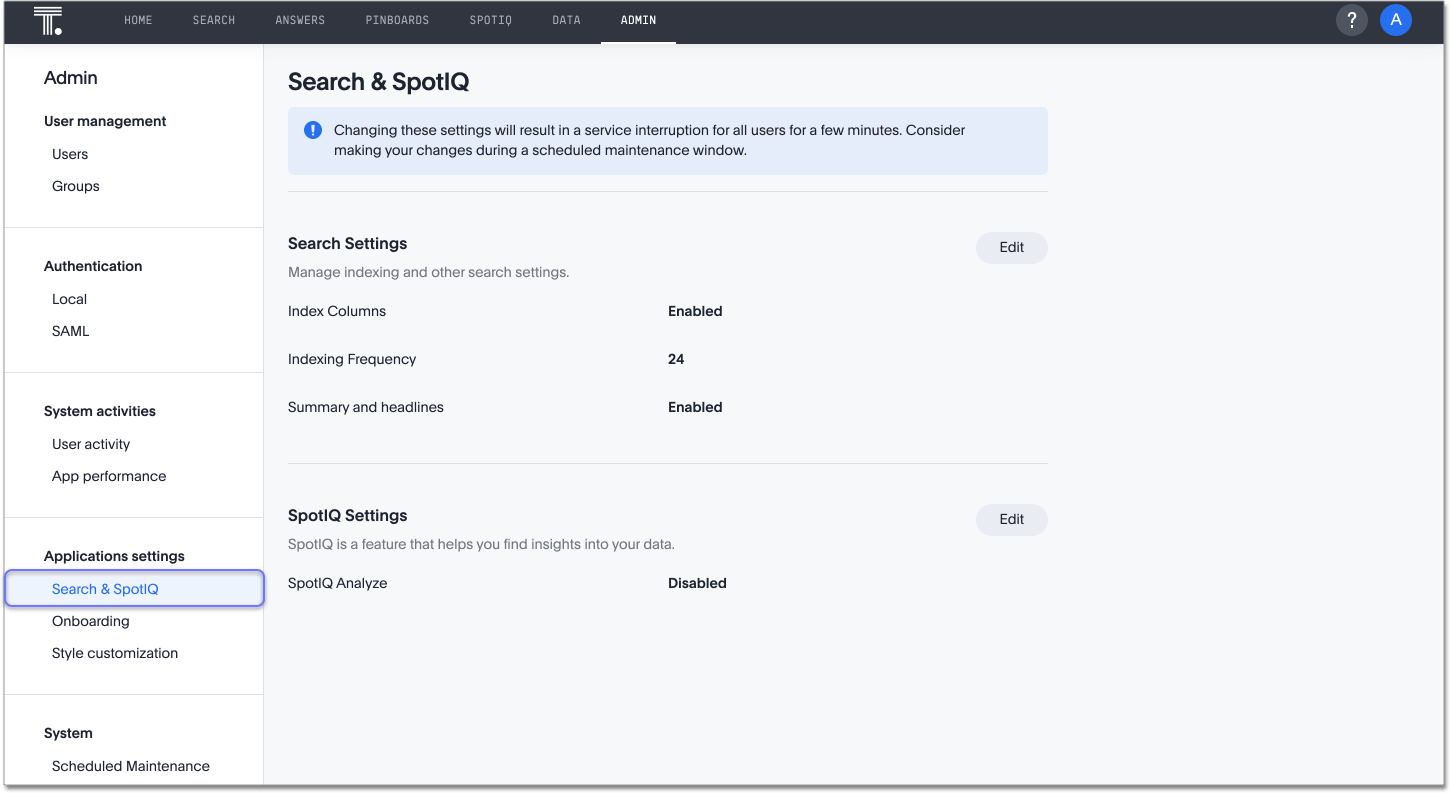
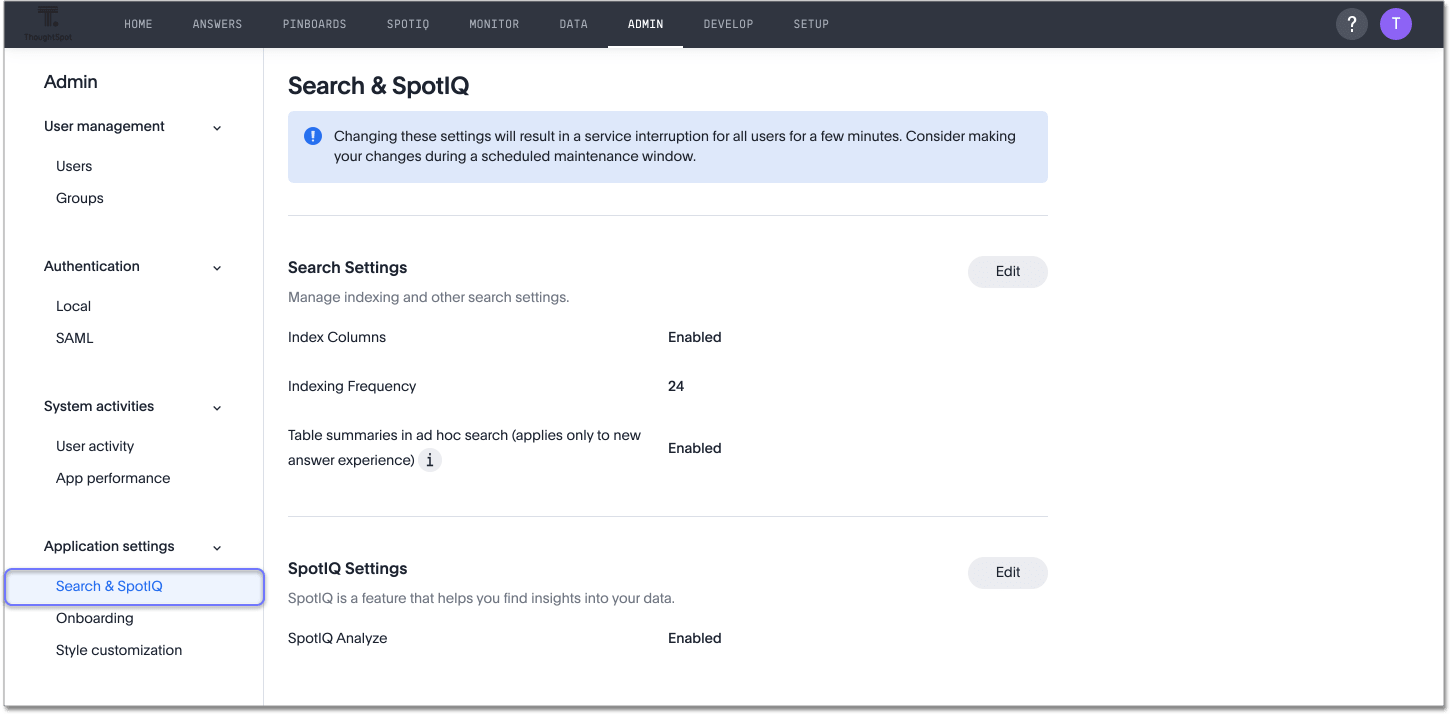
SCAL-95496 table column summary config in admin console needs review

diff --git a/_admin/ts-cloud/search-spotiq-settings.md b/_admin/ts-cloud/search-spotiq-settings.md
@@ -5,7 +5,7 @@ summary: "Manage indexing and SpotIQ settings for your organization from the Adm
 sidebar: mydoc_sidebar
 permalink: /:collection/:path.html
 ---
-You can manage certain advanced settings for your organization from the Admin Console. This includes enabling, disabling, and configuring the following features: SpotIQ, column indexing, and summaries and headlines.
+You can manage certain advanced settings for your organization from the Admin Console. This includes enabling, disabling, and configuring the following features: SpotIQ, column indexing, and summaries.
 
 Navigate to the Admin Console by clicking on the **Admin** tab from the top navigation bar. Select **Search & SpotIQ** from the side navigation bar that appears.
 
@@ -17,7 +17,7 @@ You can update the [search settings](#search) and [SpotIQ settings](#spotiq) fro
 
 {: id="search"}
 ## Search settings
-Under **Search settings**, you can configure ThoughtSpot's indexing behavior, and enable or disable summaries and headlines.
+Under **Search settings**, you can configure ThoughtSpot's indexing behavior, and enable or disable summaries.
 
 To manage search settings, follow these steps:
 
@@ -27,9 +27,9 @@ To manage search settings, follow these steps:
 
 3. **Index frequency**: Select a frequency for column indexing from the dropdown. The options are 8, 16, or 24 hours.
 
-4. **Summaries and headlines**: Click on the toggle to enable or disable the display of summaries and headlines.
+4. **Table summaries in adhoc search**: Click on the toggle to enable or disable the display of summaries in adhoc search. Note that this does not affect the display of summaries in saved objects, such as saved answers, pinned tables, or headline tiles in pinboards. It also does not affect the display of summaries for users on the classic answer experience.
 
-3. Select **Save changes**. Alternatively, you can **Reset to default**. By default, ThoughtSpot indexes new columns at a frequency of 24 hours, and enables summaries and headlines.
+3. Select **Save changes**. Alternatively, you can **Reset to default**. By default, ThoughtSpot indexes new columns at a frequency of 24 hours, and enables summaries.
 
 {: id="spotiq"}
 ## SpotIQ settings

diff --git a/_includes/content/new-answer-experience-features.md b/_includes/content/new-answer-experience-features.md
@@ -1,6 +1,7 @@
 <ul>
 <li> <a href="{{ site.baseurl }}/complex-search/how-to-add-formula.html">Improved Formula Editor</a>: The new formula editor has a larger editor window, allows new lines, and has a new layout with integrated help.</li>
 <li> <a href="{{ site.baseurl }}/end-user/search/about-tables.html">Table column summaries</a>: Conditional and number formatting for table column summaries is now available. Column summaries are aligned with their respective columns and are part of the table, although you can configure their number and conditional formatting separately.</li>
+<li> <a href="{{ site.baseurl }}/admin/ts-cloud/search-spotiq-settings.html#search">Table column summary configuration for admins</a>: You can now enable or disable column summaries for users on the new answer experience, from the <strong>Search & SpotIQ</strong> section of the admin console. By default, table column summaries are on.</li>
 <li> <a href="{{ site.baseurl }}/end-user/search/apply-conditional-formatting.html#table">Table configuration</a>:  Conditional formatting for attributes is now available for tables. Conditional formatting is now part of the <strong>Table configuration</strong> panel instead of being a separate modal. You can now set the <a href="{{ site.baseurl }}/end-user/search/about-tables.html#content-density">content density</a> and <a href="{{ site.baseurl }}/end-user/search/about-tables.html#table-theme">theme</a> (outline, row, or zebra) of your table.</li>
 <li> <a href="{{ site.baseurl }}/end-user/search/apply-conditional-formatting.html#conditional-formatting-chart">Chart configuration</a>: Conditional formatting for chart measures is now part of the <strong>Chart configuration</strong> panel instead of being a separate modal.</li>
 <li> <a href="{{ site.baseurl }}/end-user/search/apply-conditional-formatting.html#table">Conditional formatting for pivot tables</a>: You can now perform conditional formatting on measures in pivot tables.</li>

diff --git a/_includes/content/new-features-cloud-release.md b/_includes/content/new-features-cloud-release.md
@@ -81,6 +81,11 @@ For more information, refer to <a href="{{ site.baseurl }}/admin/ts-cloud/ts-clo
 <dd>When configuring SAML authentication for ThoughtSpot, it is now mandatory to map the <code>mail</code> attribute in the IDP metadata file to the email address of the user. If your company cannot meet this requirement, <a href="{{ site.baseurl }}/admin/misc/contact.html">contact ThoughtSpot support</a>. For more information, refer to <a href="{{ site.baseurl }}/admin/ts-cloud/authentication-integration.html">configure SAML</a>.</dd>
 </dlentry>
 
+<dlentry id="column-summaries">
+<dt>Enable or disable table column summaries</dt>
+<dd>This release allows admins to enable or disable table column summaries for users on the new answer experience, from the <a href="{{ site.baseurl }}/admin/ts-cloud/search-spotiq-settings.html#search">Search & SpotIQ</a> section of the admin console. By default, table column summaries are on. This does not affect the display of summaries for users on the classic answer experience.</dd>
+</dlentry>
+
 <dlentry id="admin-console">
 <dt>UI improvement for help customization</dt>
 <dd>This release improves the UI and user experience of the <a href="{{ site.baseurl }}/admin/ts-cloud/customize-help.html">Help customization</a> section of the admin console.</dd>
